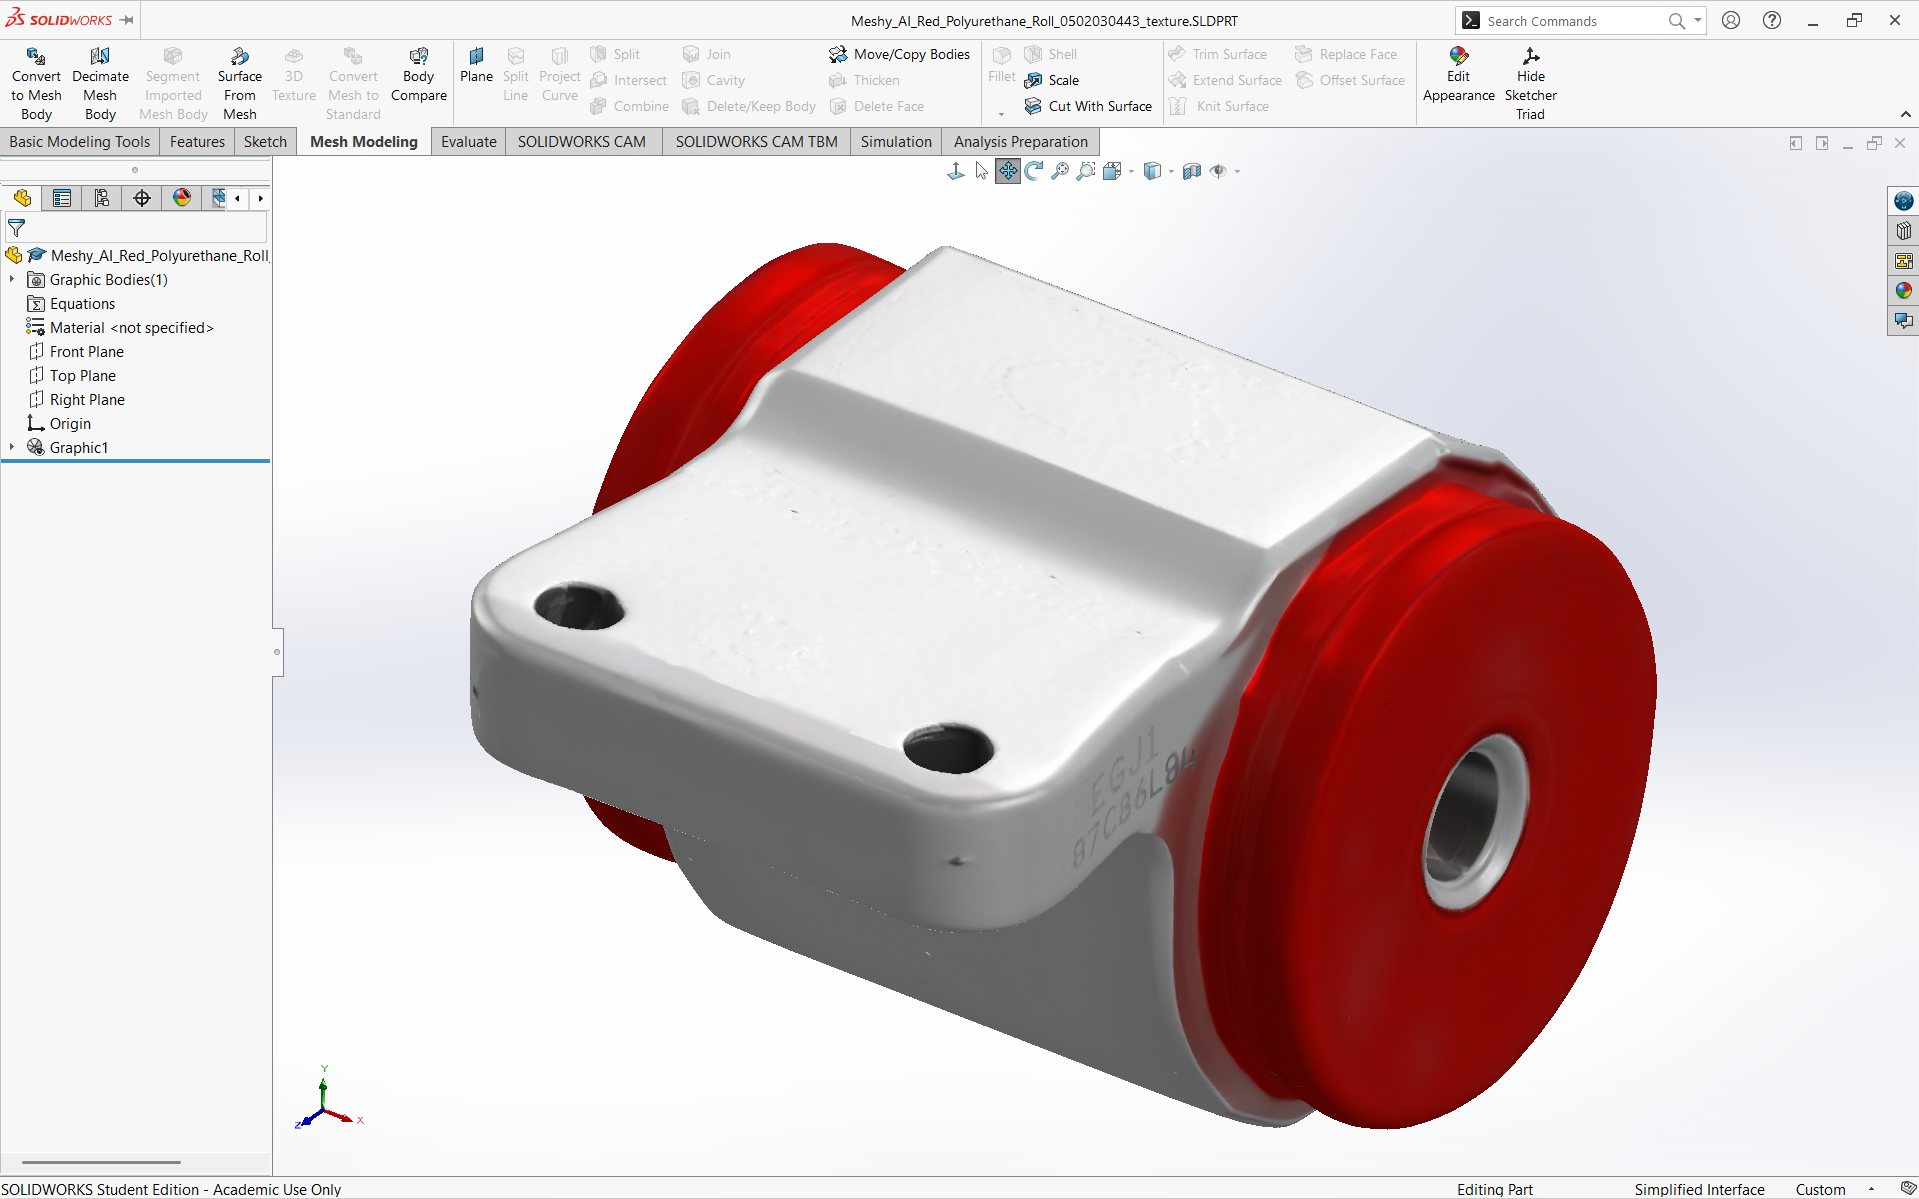
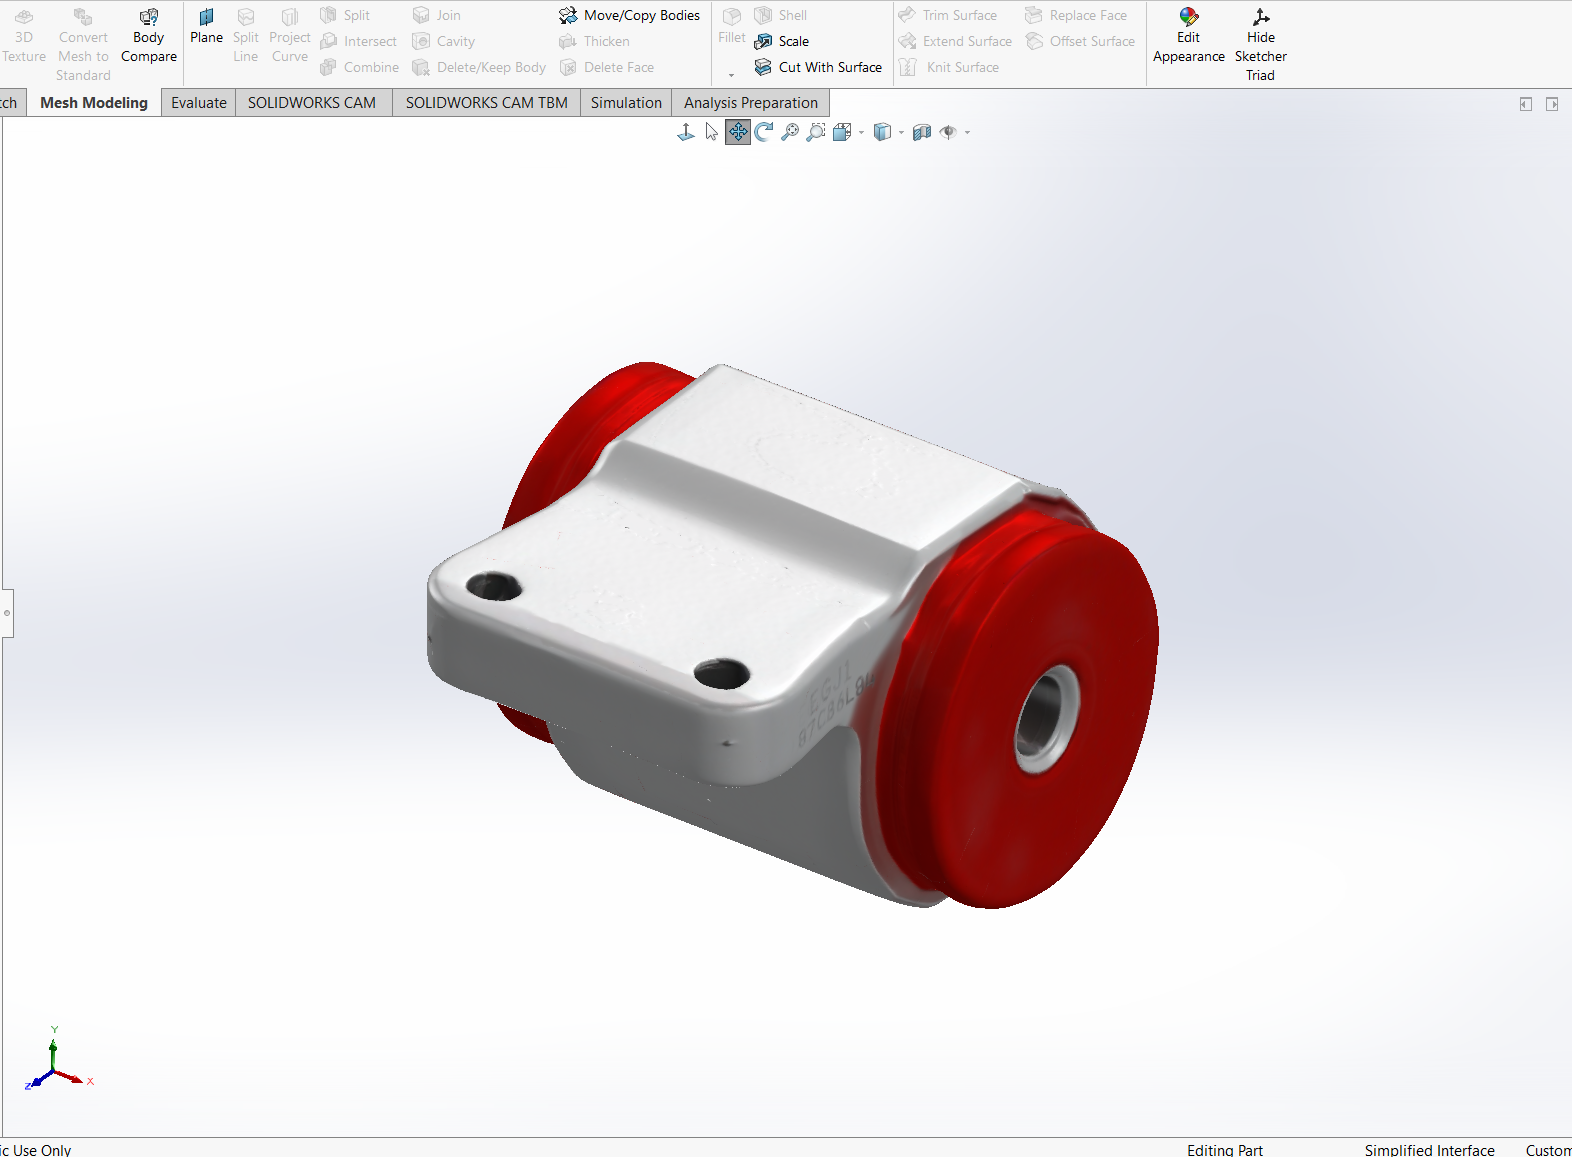
adjust images within frames

diff --git a/index.html b/index.html
@@ -1005,12 +1005,12 @@
         <div class="img-gallery-label">Build Documentation</div>
         <div class="img-row cols-2" style="margin-bottom:8px;">
           <div class="img-slot sq">
-            <img src="UAVs at UCI/board soldering.jpg" alt="Soldering motors to FC" onload="this.nextElementSibling.style.display='none'" onerror="this.style.display='none'">
+            <img src="UAVs at UCI/board soldering.jpg" alt="Soldering motors to FC" style="object-position: 50% 100%;" onload="this.nextElementSibling.style.display='none'" onerror="this.style.display='none'">
             <div class="ph"><div class="ph-icon"><svg width="12" height="12" viewBox="0 0 12 12" fill="none"><path d="M2 10 L8 4" stroke="#8a8a82" stroke-width="1.5" stroke-linecap="round"/><circle cx="9" cy="3" r="1.5" stroke="#8a8a82" stroke-width="1"/></svg></div><div class="ph-name">board soldering.jpg</div></div>
             <div class="img-caption">Soldering Motor Leads</div>
           </div>
           <div class="img-slot sq">
-            <img src="UAVs at UCI/motor assembly.jpeg" alt="Board with motors" onload="this.nextElementSibling.style.display='none'" onerror="this.style.display='none'">
+            <img src="UAVs at UCI/motor assembly.jpeg" alt="Board with motors" style="object-position: 35% 50%;" onload="this.nextElementSibling.style.display='none'" onerror="this.style.display='none'">
             <div class="ph"><div class="ph-icon"><svg width="12" height="12" viewBox="0 0 12 12" fill="none"><rect x="3" y="3" width="6" height="6" rx="1" stroke="#8a8a82" stroke-width="1"/><circle cx="3" cy="3" r="1" fill="#8a8a82"/><circle cx="9" cy="3" r="1" fill="#8a8a82"/><circle cx="3" cy="9" r="1" fill="#8a8a82"/><circle cx="9" cy="9" r="1" fill="#8a8a82"/></svg></div><div class="ph-name">motor assembly.jpeg</div></div>
             <div class="img-caption">FC with Motors Mounted</div>
           </div>
@@ -1101,7 +1101,7 @@
               <div class="img-caption">1999 Honda Prelude</div>
             </div>
             <div class="img-slot sq">
-              <img src="Car Tuning/clutch master cylinder.jpeg" alt="Clutch master cylinder" onload="this.nextElementSibling.style.display='none'" onerror="this.style.display='none'">
+              <img src="Car Tuning/clutch master cylinder.jpeg" alt="Clutch master cylinder" style="object-position: 100% 50%;" onload="this.nextElementSibling.style.display='none'" onerror="this.style.display='none'">
               <div class="ph"><div class="ph-icon"><svg width="12" height="12" viewBox="0 0 12 12" fill="none"><rect x="1" y="3" width="10" height="7" rx="1" stroke="#8a8a82" stroke-width="1"/><path d="M4 3 V1.5 Q6 1 8 1.5 V3" stroke="#8a8a82" stroke-width="1"/></svg></div><div class="ph-name">clutch master cylinder.jpeg</div></div>
               <div class="img-caption">Clutch Master Cylinder</div>
             </div>
@@ -1134,7 +1134,7 @@
               </div>
             </div>
             <div class="img-slot sq">
-              <img src="Car Tuning\solidworks engine mount.png" alt="SOLIDWORKS engine mount" onload="this.nextElementSibling.style.display='none'" onerror="this.style.display='none'">
+              <img src="Car Tuning\solidworks engine mount.png" alt="SOLIDWORKS engine mount" style="object-position: 65% 50%;" onload="this.nextElementSibling.style.display='none'" onerror="this.style.display='none'">
               <div class="ph"><div class="ph-icon"><svg width="12" height="12" viewBox="0 0 12 12" fill="none"><rect x="2" y="2" width="8" height="8" rx="1" stroke="#8a8a82" stroke-width="1"/><path d="M4 6 L5.5 4 L7.5 7.5" stroke="#8a8a82" stroke-width="1" stroke-linecap="round" stroke-linejoin="round"/><circle cx="8" cy="4.5" r="1" stroke="#8a8a82" stroke-width="1"/></svg></div><div class="ph-name">accord_solidworks_mount.jpg</div></div>
               <div class="img-caption">SOLIDWORKS — Custom Engine Mount</div>
             </div>